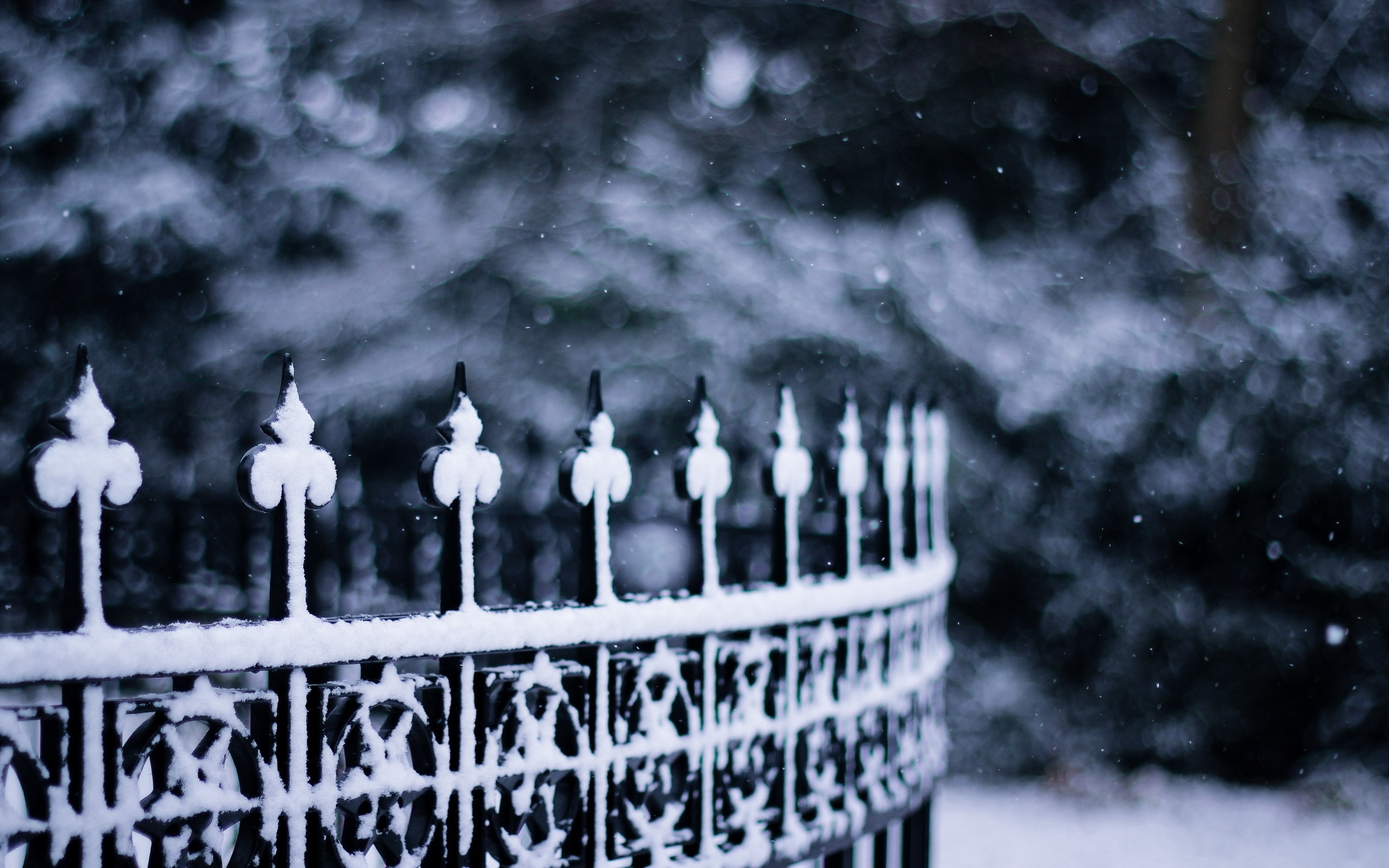
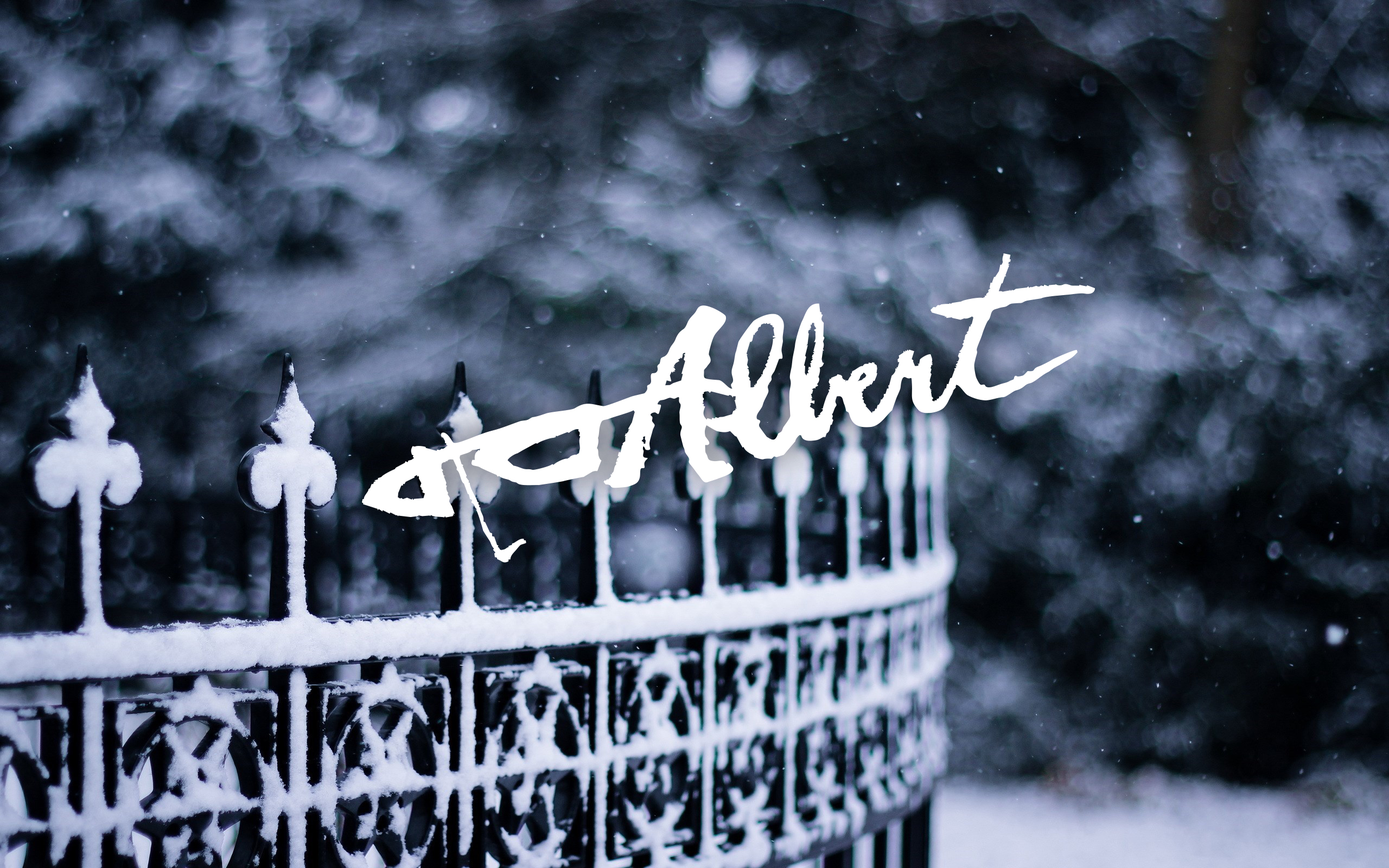
Added image to index.html

Changed region(s): [[0.25, 0.2812, 0.7812, 0.6562]]

diff --git a/index.html b/index.html
@@ -1,34 +1,5 @@
 ---
 layout: default
 ---
-    
-<div class="banner">
-	<h1 class="yotta">Dimetrodon</h1>
-	<p class="giga brand-color">Lorem ipsum dolor sit amet, consectetur adipiscing elit. Morbi fermentum porta mauris, ac dapibus leo pellentesque non. </p>
-</div>
-
-<h1>Heading 1</h1>
-
-<h2><a href="#">Heading 2</a></h2>
-
-<h3>Heading 3.4</h3>
-
-<h4>Heading 4</h4>
-
-<h5>Heading 5</h5>
-
-<h6>Heading 6</h6>
-
-<p>Lorem ipsum dolor sit amet, <a href="#">consectetur adipiscing</a> elit. Morbi fermentum porta mauris, ac dapibus leo pellentesque non. Nulla non orci augue. Etiam eu blandit odio. Morbi id tincidunt lorem, quis ultrices eros. In lobortis lectus ut congue laoreet. Aliquam a orci magna. Suspendisse eleifend tellus a venenatis vestibulum. Proin vel faucibus nunc.</p>
-
-<figure class="brand">
-	<img src="http://placekitten.com/300/300" alt="kitten">
-	<figcaption class="milli">Kittens Galore</figcaption>
-</figure>
-
-<ul>
-	<li>Cool Bullets</li>
-	<li>Are Cool</li>
-	<li>Cool Bullets</li>
-	<li>Poem</li>
-</ul>
+  
+<img class="flex-img" src="images/home-image.jpg">
